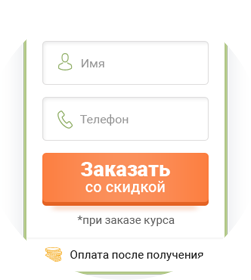
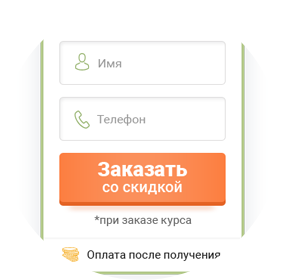
vlad

diff --git a/source/style/common/h_order.scss b/source/style/common/h_order.scss
@@ -1,22 +1,89 @@
-.order{
+.order {
 	padding-top: 70px;
 	padding-bottom: 110px;
-	.use-box__img:before{
+
+	.use-box__img:before {
 		background-color: #f3e7d8;
+
 	}
-	.use-box:nth-child(2n+1) {
-    margin-top: 60px;
+
+	.usei2 {
+		&:before {
+
+			left: 0px;
+			top: -15px;
+			transform: none;
+		}
+	}
+
+	.use-box__img:before {
+
+		width: 104%;
+		height: 104%;
+
+		Ї .use-box:nth-child(2n+1) {
+			margin-top: 60px;
+		}
+
+		.lr-line:before,
+		.lr-line:after {
+			top: 60px;
+		}
+
+		.use-box__img {
+			position: relative;
+
+			img {
+				position: absolute;
+				left: 50%;
+				top: 50%;
+				transform: translate(-50%, -50%);
+
+			}
+		}
+
+		.use-content {
+			position: relative;
+			z-index: 0;
+		}
+	}
 }
-.lr-line:before, .lr-line:after{
-	top: 60px;
-}
-.use-box__img{
-position: relative;
-img{
-	position: absolute;
-	left: 50%;
-	top: 50%;
-	transform: translate(-50%, -50%);
-}
-}
-}
+	.order-box__stext {
+		color: #444444;
+		font-size: 18px;
+		font-weight: 400;
+		text-align: center;
+		margin-top: 10px;
+	}
+
+
+	@media screen and (max-width: 1199px) {
+	.order-box__stext{
+		margin-top: 5px;
+		font-size: 17px;
+		line-height: normal;
+	}
+	}
+	
+	@media screen and (max-width: 1023px) {
+		.order-box__stext{
+			margin-top: 3px;
+			font-size: 16px;
+			line-height: normal;
+		}
+	}
+	
+	@media screen and (max-width: 767px) {
+		.order-box__stext{
+			margin-top: 0px;
+
+		}
+		.order-box__stext br{
+		display: none;
+
+		}
+	}
+	
+	@media screen and (max-width: 639px) {
+	
+	}

diff --git a/source/template/common/h_order.html b/source/template/common/h_order.html
@@ -18,7 +18,7 @@
 											<img src="img/order-2.png" alt="order-2">
 											
 										</div>
-										<div class="use-box__text">Ответьте на звонок оператора</div>
+										<div class="use-box__text">Ответьте на звонок<br> оператора</div>
 										<div class="order-box__stext">Он уточнит ваши адресные<br> данные и ответит на все<br> вопросы о Цистероле</div>
 										</div>
 										<div class="use-box">
@@ -26,7 +26,7 @@
 												<img src="img/order-3.png" alt="order-3">
 												
 											</div>
-											<div class="use-box__text">Оплатите <span class="orange">после получения</span>
+											<div class="use-box__text">Оплатите <span class="orange">после<br> получения</span>
 												</div>
 												<div class="order-box__stext">Никаких предоплат!</div>
 											</div>

diff --git a/source/style/common/e_use.scss b/source/style/common/e_use.scss
@@ -18,7 +18,7 @@
 		}
 		&__text{
 			color: #171717;
-	font-size: 21px;
+	font-size: 22px;
 	font-weight: 500;
 	line-height: 28px;
 	margin-top: 32px;
